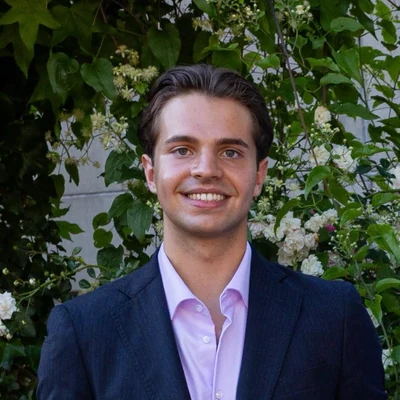
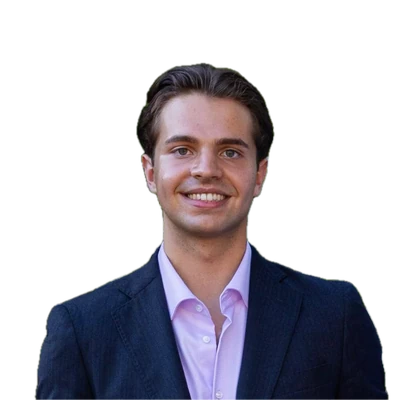
Give all four team photos the same white background

diff --git a/index.html b/index.html
@@ -25,7 +25,7 @@
 <link rel="stylesheet" href="assets/site.css?v=20261123-mono">
 <link rel="stylesheet" href="assets/brand-colors.css?v=20261123-mono">
 <link rel="stylesheet" href="assets/navigation.css?v=20261123-mono">
-<link rel="stylesheet" href="assets/model-providers.css?v=1"><link rel="stylesheet" href="assets/cinema-home.css?v=20261123-tageslicht"><link rel="stylesheet" href="assets/agentario-call.css?v=20261123-mono"><link rel="stylesheet" href="assets/automation-hero.css?v=20261123-kiwi-rechts"><link rel="stylesheet" href="assets/lu-schluss.css?v=20261118-restored"><link rel="stylesheet" href="assets/ive-network.css?v=20261123-retina"><link rel="stylesheet" href="assets/ive-models.css?v=20261123-retina"><link rel="stylesheet" href="assets/team-profiles.css?v=20261123-felix"><link rel="stylesheet" href="assets/film-card.css?v=20261123-schwebeflug">
+<link rel="stylesheet" href="assets/model-providers.css?v=1"><link rel="stylesheet" href="assets/cinema-home.css?v=20261123-tageslicht"><link rel="stylesheet" href="assets/agentario-call.css?v=20261123-mono"><link rel="stylesheet" href="assets/automation-hero.css?v=20261123-kiwi-rechts"><link rel="stylesheet" href="assets/lu-schluss.css?v=20261118-restored"><link rel="stylesheet" href="assets/ive-network.css?v=20261123-retina"><link rel="stylesheet" href="assets/ive-models.css?v=20261123-retina"><link rel="stylesheet" href="assets/team-profiles.css?v=20261123-weiss"><link rel="stylesheet" href="assets/film-card.css?v=20261123-schwebeflug">
 <link rel="stylesheet" href="assets/studio-shell.css?v=20261123-review">
 <script>document.documentElement.classList.add('js')</script>
 <!-- shared-language:start -->
@@ -109,7 +109,7 @@
         <h1 id="landing-title">KI, die Arbeit übernimmt.</h1>
         <p class="opening-lead">Unsere KI-Agenten übertragen Daten, bereiten Aufgaben in Ihrer Software vor und nehmen Anrufe an.</p>
         <div class="opening-actions">
-          <a class="cine-button team-cta" href="kontakt.html"><span class="team-faces" aria-hidden="true"><img src="assets/people/michael-ramich-96.webp" width="96" height="96" alt=""><img src="assets/people/maximilian-schwarz-96.webp" width="96" height="96" alt=""></span><span>Mit uns sprechen</span> <span aria-hidden="true">↗</span></a>
+          <a class="cine-button team-cta" href="kontakt.html"><span class="team-faces" aria-hidden="true"><img src="assets/people/michael-ramich-96.webp?v=weiss-1" width="96" height="96" alt=""><img src="assets/people/maximilian-schwarz-96.webp" width="96" height="96" alt=""></span><span>Mit uns sprechen</span> <span aria-hidden="true">↗</span></a>
           <a class="cine-link" href="#produkte">Produkte ansehen <span aria-hidden="true">↓</span></a>
         </div>
       </div>
@@ -367,7 +367,7 @@
     </div>
     <div class="team-roster">
   <article class="team-person" id="michael-ramich" aria-labelledby="michael-name">
-    <div class="team-photo"><img src="assets/people/michael-ramich-400.webp" srcset="assets/people/michael-ramich-96.webp 96w, assets/people/michael-ramich-400.webp 400w" sizes="auto, (max-width: 650px) 32vw, (max-width: 940px) 42vw, (min-width: 1580px) 330px, 21vw" alt="" width="400" height="400" loading="lazy" decoding="async"></div>
+    <div class="team-photo"><img src="assets/people/michael-ramich-400.webp?v=weiss-1" srcset="assets/people/michael-ramich-96.webp?v=weiss-1 96w, assets/people/michael-ramich-400.webp?v=weiss-1 400w" sizes="auto, (max-width: 650px) 32vw, (max-width: 940px) 42vw, (min-width: 1580px) 330px, 21vw" alt="" width="400" height="400" loading="lazy" decoding="async"></div>
     <div class="team-person-copy">
       <h3 id="michael-name" data-i18n-ignore>Michael Ramich</h3>
       <p class="team-role">Gründer und Geschäftsführer</p>
@@ -391,7 +391,7 @@
     </div>
   </article>
   <article class="team-person" id="felix-schmidt" aria-labelledby="felix-name">
-    <div class="team-photo"><img src="assets/people/felix-schmidt-400.webp" srcset="assets/people/felix-schmidt-96.webp 96w, assets/people/felix-schmidt-400.webp 400w, assets/people/felix-schmidt-800.webp 800w" sizes="auto, (max-width: 650px) 32vw, (max-width: 940px) 42vw, (min-width: 1580px) 330px, 21vw" alt="" width="800" height="800" loading="lazy" decoding="async"></div>
+    <div class="team-photo"><img src="assets/people/felix-schmidt-400.webp?v=weiss-1" srcset="assets/people/felix-schmidt-96.webp?v=weiss-1 96w, assets/people/felix-schmidt-400.webp?v=weiss-1 400w, assets/people/felix-schmidt-800.webp?v=weiss-1 800w" sizes="auto, (max-width: 650px) 32vw, (max-width: 940px) 42vw, (min-width: 1580px) 330px, 21vw" alt="" width="800" height="800" loading="lazy" decoding="async"></div>
     <div class="team-person-copy">
       <h3 id="felix-name" data-i18n-ignore>Felix Schmidt</h3>
       <p class="team-role">Vertrieb</p>

diff --git a/unternehmen.html b/unternehmen.html
@@ -23,7 +23,7 @@
 <link rel="stylesheet" href="assets/site.css?v=20261123-mono">
 <link rel="stylesheet" href="assets/brand-colors.css?v=20261123-mono">
 <link rel="stylesheet" href="assets/navigation.css?v=20261123-mono">
-<link rel="stylesheet" href="assets/page-film.css?v=20261123-mono"><link rel="stylesheet" href="assets/company-pages.css?v=20261123-mono"><link rel="stylesheet" href="assets/testimonial.css?v=20261123-hover"><link rel="stylesheet" href="assets/lu-worte.css"><link rel="stylesheet" href="assets/lu-knopf.css?v=20261123-mono"><link rel="stylesheet" href="assets/lu-details.css?v=20261123-mono"><link rel="stylesheet" href="assets/product-experience.css?v=20261123-mono"><link rel="stylesheet" href="assets/team-profiles.css?v=20261123-felix">
+<link rel="stylesheet" href="assets/page-film.css?v=20261123-mono"><link rel="stylesheet" href="assets/company-pages.css?v=20261123-mono"><link rel="stylesheet" href="assets/testimonial.css?v=20261123-hover"><link rel="stylesheet" href="assets/lu-worte.css"><link rel="stylesheet" href="assets/lu-knopf.css?v=20261123-mono"><link rel="stylesheet" href="assets/lu-details.css?v=20261123-mono"><link rel="stylesheet" href="assets/product-experience.css?v=20261123-mono"><link rel="stylesheet" href="assets/team-profiles.css?v=20261123-weiss">
 <link rel="stylesheet" href="assets/studio-shell.css?v=20261123-review">
 <script>document.documentElement.classList.add('js')</script>
 <!-- shared-language:start -->
@@ -108,7 +108,7 @@
     </div>
     <div class="team-roster">
   <article class="team-person" id="michael-ramich" aria-labelledby="michael-name">
-    <div class="team-photo"><img src="assets/people/michael-ramich-400.webp" srcset="assets/people/michael-ramich-96.webp 96w, assets/people/michael-ramich-400.webp 400w" sizes="auto, (max-width: 650px) 32vw, (max-width: 940px) 42vw, (min-width: 1580px) 330px, 21vw" alt="" width="400" height="400" loading="lazy" decoding="async"></div>
+    <div class="team-photo"><img src="assets/people/michael-ramich-400.webp?v=weiss-1" srcset="assets/people/michael-ramich-96.webp?v=weiss-1 96w, assets/people/michael-ramich-400.webp?v=weiss-1 400w" sizes="auto, (max-width: 650px) 32vw, (max-width: 940px) 42vw, (min-width: 1580px) 330px, 21vw" alt="" width="400" height="400" loading="lazy" decoding="async"></div>
     <div class="team-person-copy">
       <h3 id="michael-name" data-i18n-ignore>Michael Ramich</h3>
       <p class="team-role">Gründer und Geschäftsführer</p>
@@ -132,7 +132,7 @@
     </div>
   </article>
   <article class="team-person" id="felix-schmidt" aria-labelledby="felix-name">
-    <div class="team-photo"><img src="assets/people/felix-schmidt-400.webp" srcset="assets/people/felix-schmidt-96.webp 96w, assets/people/felix-schmidt-400.webp 400w, assets/people/felix-schmidt-800.webp 800w" sizes="auto, (max-width: 650px) 32vw, (max-width: 940px) 42vw, (min-width: 1580px) 330px, 21vw" alt="" width="800" height="800" loading="lazy" decoding="async"></div>
+    <div class="team-photo"><img src="assets/people/felix-schmidt-400.webp?v=weiss-1" srcset="assets/people/felix-schmidt-96.webp?v=weiss-1 96w, assets/people/felix-schmidt-400.webp?v=weiss-1 400w, assets/people/felix-schmidt-800.webp?v=weiss-1 800w" sizes="auto, (max-width: 650px) 32vw, (max-width: 940px) 42vw, (min-width: 1580px) 330px, 21vw" alt="" width="800" height="800" loading="lazy" decoding="async"></div>
     <div class="team-person-copy">
       <h3 id="felix-name" data-i18n-ignore>Felix Schmidt</h3>
       <p class="team-role">Vertrieb</p>

diff --git a/kontakt.html b/kontakt.html
@@ -23,7 +23,7 @@
 <link rel="stylesheet" href="assets/site.css?v=20261123-mono">
 <link rel="stylesheet" href="assets/brand-colors.css?v=20261123-mono">
 <link rel="stylesheet" href="assets/navigation.css?v=20261123-mono">
-<link rel="stylesheet" href="assets/page-film.css?v=20261123-mono"><link rel="stylesheet" href="assets/company-pages.css?v=20261123-mono"><link rel="stylesheet" href="assets/lu-worte.css"><link rel="stylesheet" href="assets/lu-knopf.css?v=20261123-mono"><link rel="stylesheet" href="assets/lu-details.css?v=20261123-mono"><link rel="stylesheet" href="assets/product-experience.css?v=20261123-mono"><link rel="stylesheet" href="assets/team-profiles.css?v=20261123-team">
+<link rel="stylesheet" href="assets/page-film.css?v=20261123-mono"><link rel="stylesheet" href="assets/company-pages.css?v=20261123-mono"><link rel="stylesheet" href="assets/lu-worte.css"><link rel="stylesheet" href="assets/lu-knopf.css?v=20261123-mono"><link rel="stylesheet" href="assets/lu-details.css?v=20261123-mono"><link rel="stylesheet" href="assets/product-experience.css?v=20261123-mono"><link rel="stylesheet" href="assets/team-profiles.css?v=20261123-weiss">
 <link rel="stylesheet" href="assets/studio-shell.css?v=20261123-review">
 <script>document.documentElement.classList.add('js')</script>
 <!-- shared-language:start -->
@@ -98,7 +98,7 @@
   <h1 id="contact-title">Was beschäftigt Ihr Team?</h1>
   <div class="team-contact-intro">
   <p class="film-hero-lead">Erzählen Sie uns von einer Aufgabe, die in Ihrem Alltag zu viel Zeit kostet. Ein paar Sätze reichen für den Anfang.</p>
-  <div class="contact-people"><span class="team-faces" aria-hidden="true"><img src="assets/people/michael-ramich-96.webp" width="96" height="96" alt=""><img src="assets/people/maximilian-schwarz-96.webp" width="96" height="96" alt=""></span><a class="contact-person-link" href="unternehmen.html#team">Michael und Maximilian kennenlernen <span aria-hidden="true">↗</span></a></div>
+  <div class="contact-people"><span class="team-faces" aria-hidden="true"><img src="assets/people/michael-ramich-96.webp?v=weiss-1" width="96" height="96" alt=""><img src="assets/people/maximilian-schwarz-96.webp" width="96" height="96" alt=""></span><a class="contact-person-link" href="unternehmen.html#team">Michael und Maximilian kennenlernen <span aria-hidden="true">↗</span></a></div>
   </div>
  </div>
 </section>

diff --git a/assets/team-profiles.css b/assets/team-profiles.css
@@ -52,7 +52,7 @@
 .team-section a:focus-visible, .contact-person-link:focus-visible { outline: 2px solid #111; outline-offset: 3px; }
 .team-roster { display: grid; gap: clamp(18px, 2.7vw, 44px); grid-template-columns: repeat(4, minmax(0, 1fr)); }
 .team-person { min-width: 0; }
-.team-photo { overflow: hidden; aspect-ratio: 1; margin: 0; background: #e9e9e9; }
+.team-photo { overflow: hidden; aspect-ratio: 1; margin: 0; background: #fff; }
 .team-photo img { display: block; width: 100%; height: 100%; object-fit: cover; }
 .team-person-copy { min-width: 0; padding-top: 17px; }
 .team-section .team-role { hyphens: auto; overflow-wrap: anywhere; }
@@ -67,7 +67,7 @@
 .team-extra { font-weight: 500; color: inherit; text-underline-offset: .2em; }
 .team-faces { display: inline-flex; align-items: center; flex: 0 0 auto; }
 .team-faces img {
-  width: 29px; height: 29px; border-radius: 50%; background: #e6e6e6;
+  width: 29px; height: 29px; border-radius: 50%; background: #fff;
   box-shadow: 0 0 0 2px #fff; object-fit: cover;
 }
 .team-faces img + img { margin-left: -7px; }
